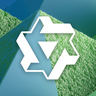
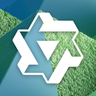
fix(models): 千问白色标改为方图的 74%（用户选定）
上一个 commit 取了 66%；用户看过 46 / 58 / 66 / 74% 四档对比后说「74% 的可以」。

Made-with: Orbita

Changed region(s): [[0.125, 0.125, 0.875, 0.9062], [0.375, 0.4062, 0.625, 0.625]]

diff --git a/src/renderer/src/features/settings/ModelAvatar.tsx b/src/renderer/src/features/settings/ModelAvatar.tsx
@@ -41,7 +41,7 @@ import { VendorLogo } from "./VendorLogo";
  *   <id>-texture.webp）——把星系、太阳、月亮抠出来缩到方图约三分之一，放在同图取样的星空底上；
  *   月亮在原图里被右缘切掉一截，按左半镜像补成整轮（2026-10-25 用户：「月亮和太阳的占比放小一点」）；
  * - qwen3.8-max / qwen3.8-flash：千问 AI 平台模型市场（qianwenai.com/models）顶部轮播的两张封面
- *   （绿草几何体、彩色羽流）裁方，正中贴白色千问标（与 DeepSeek 两枚贴鲸鱼同一做法；标宽约方图的 66%——46% 时用户嫌太小，
+ *   （绿草几何体、彩色羽流）裁方，正中贴白色千问标（与 DeepSeek 两枚贴鲸鱼同一做法；标宽约方图的 74%——46% 时用户嫌太小、比过 58 / 66 / 74% 后选了 74%，
  *   下方一层柔和投影——Flash 的底是浅色，纯白标会糊进去）；
  * - qwen3.8-27b：千问公众号「Qwen3.8-27B 开源」正文头图（2048×1152，推文封面是 2.35:1 裁过的、会切掉设备上下沿），
  *   裁出完整的三台设备与地平线（避开右边的标题字）；
